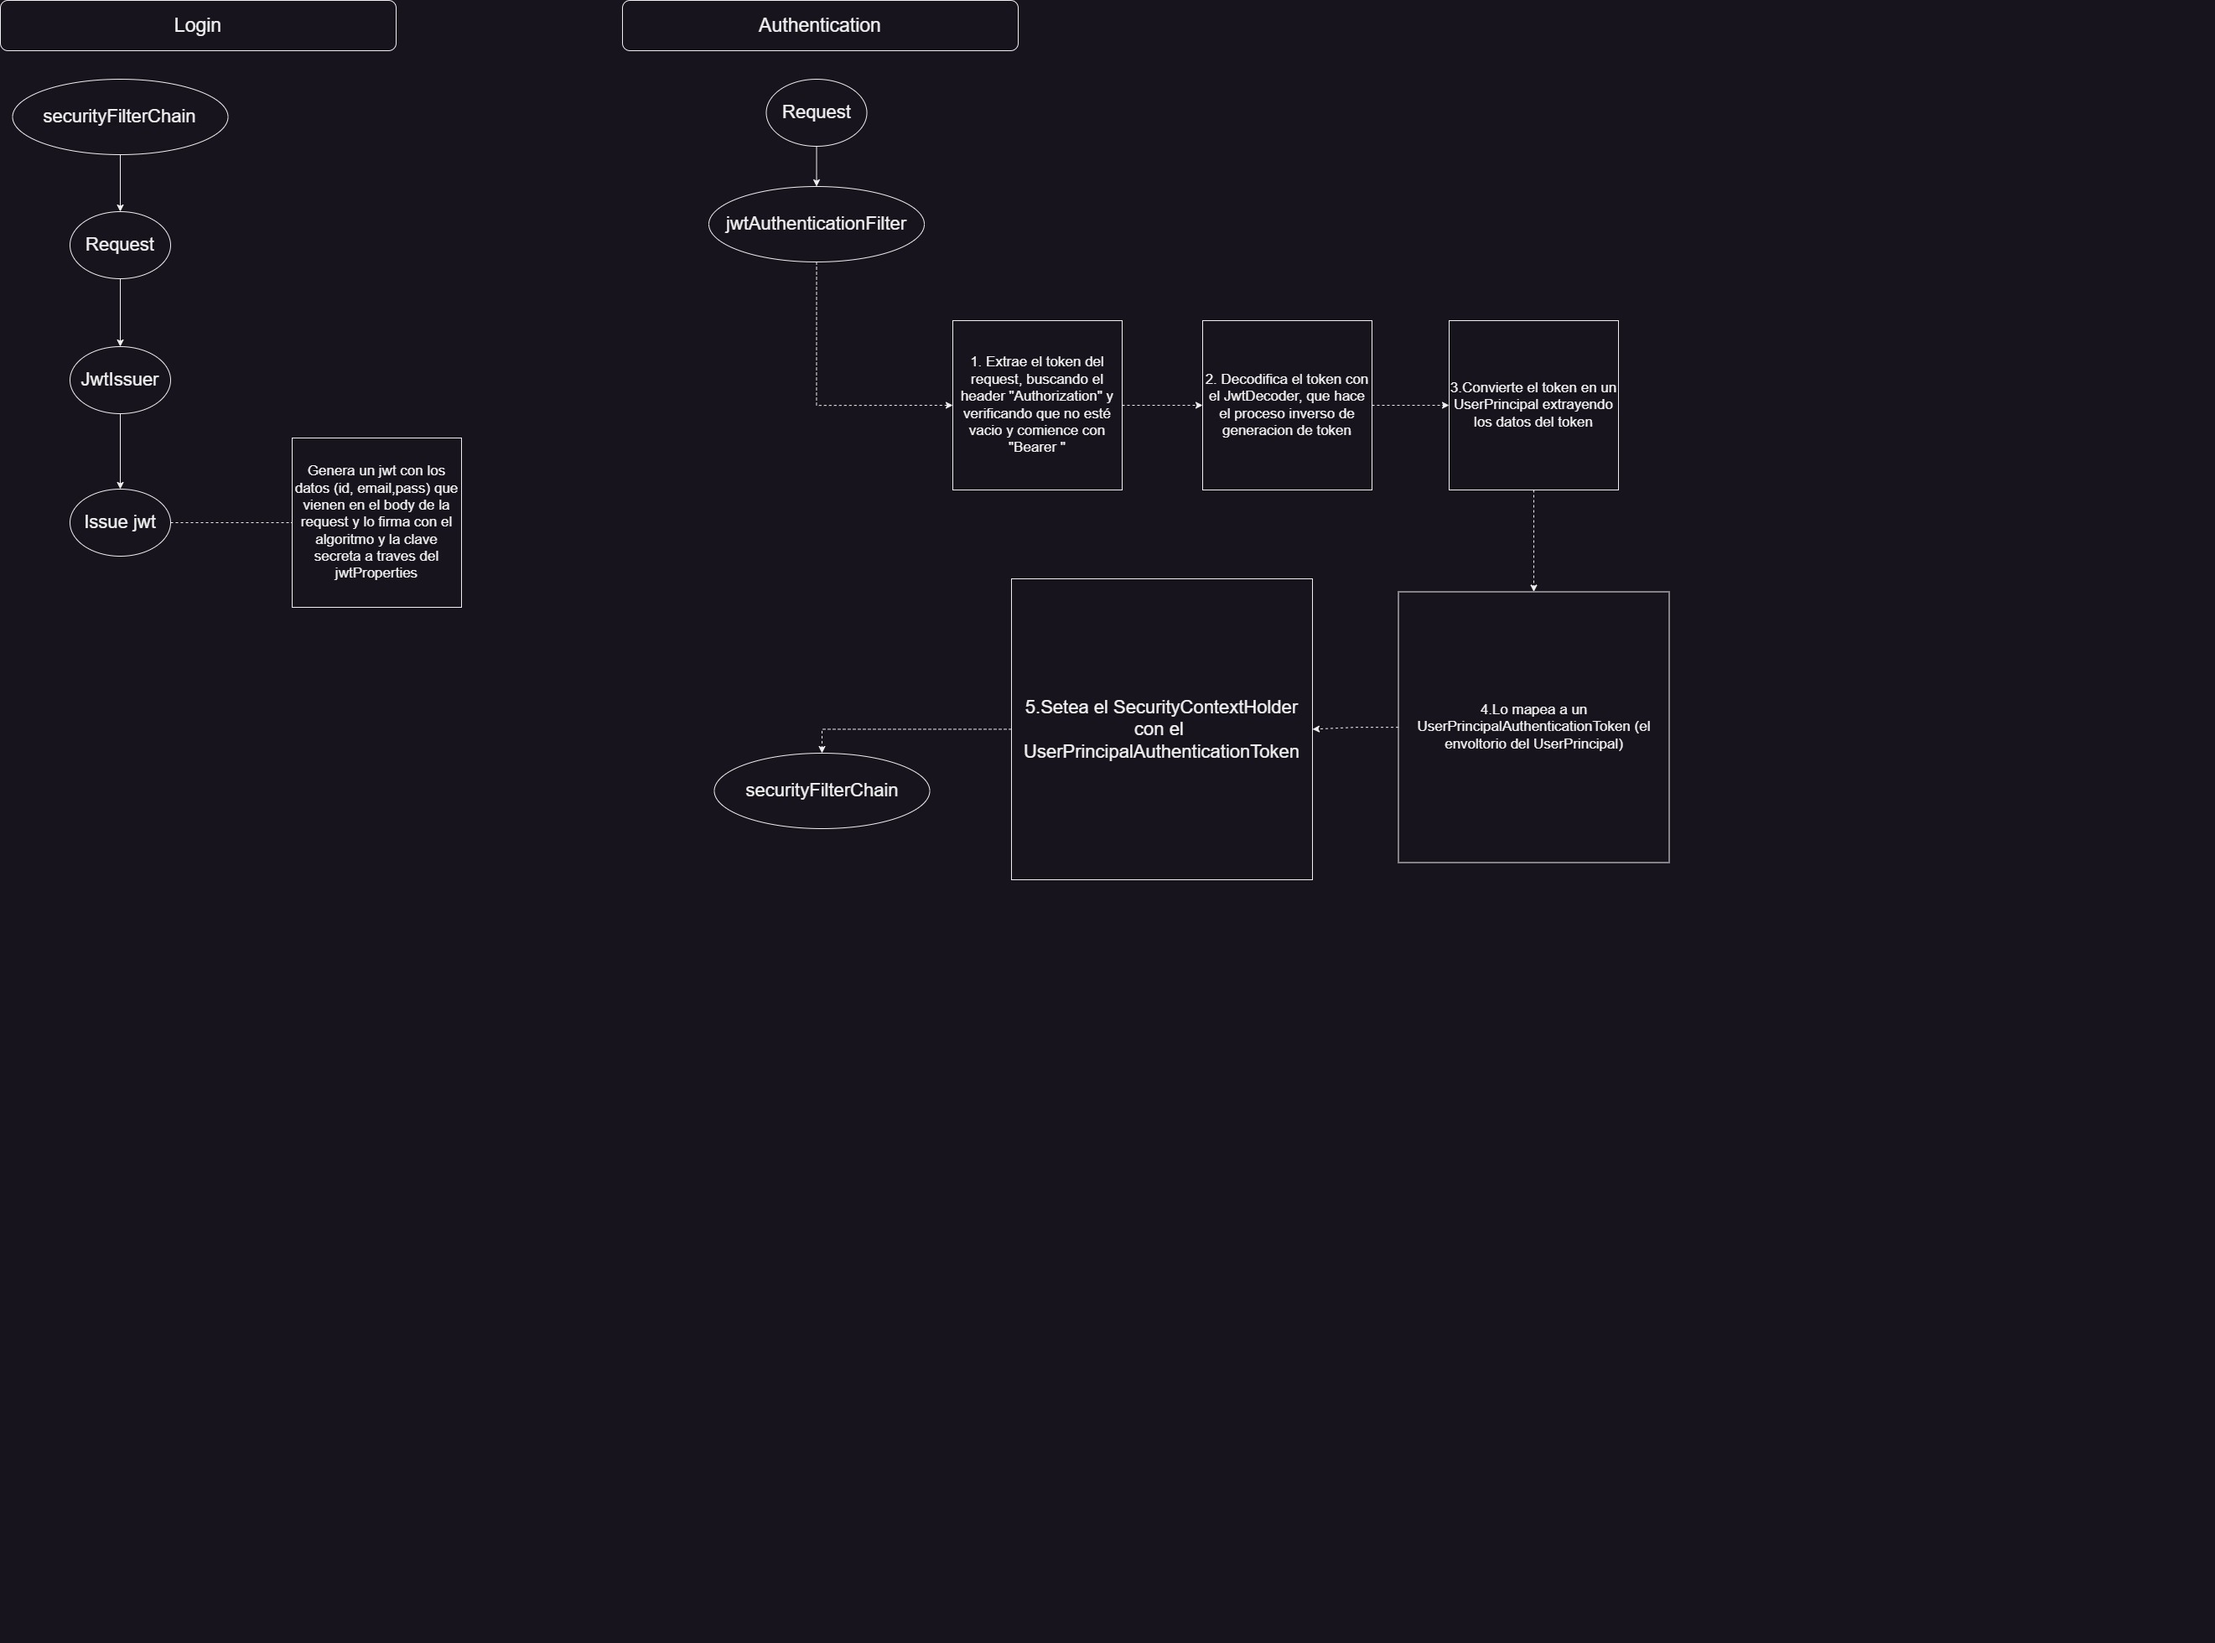
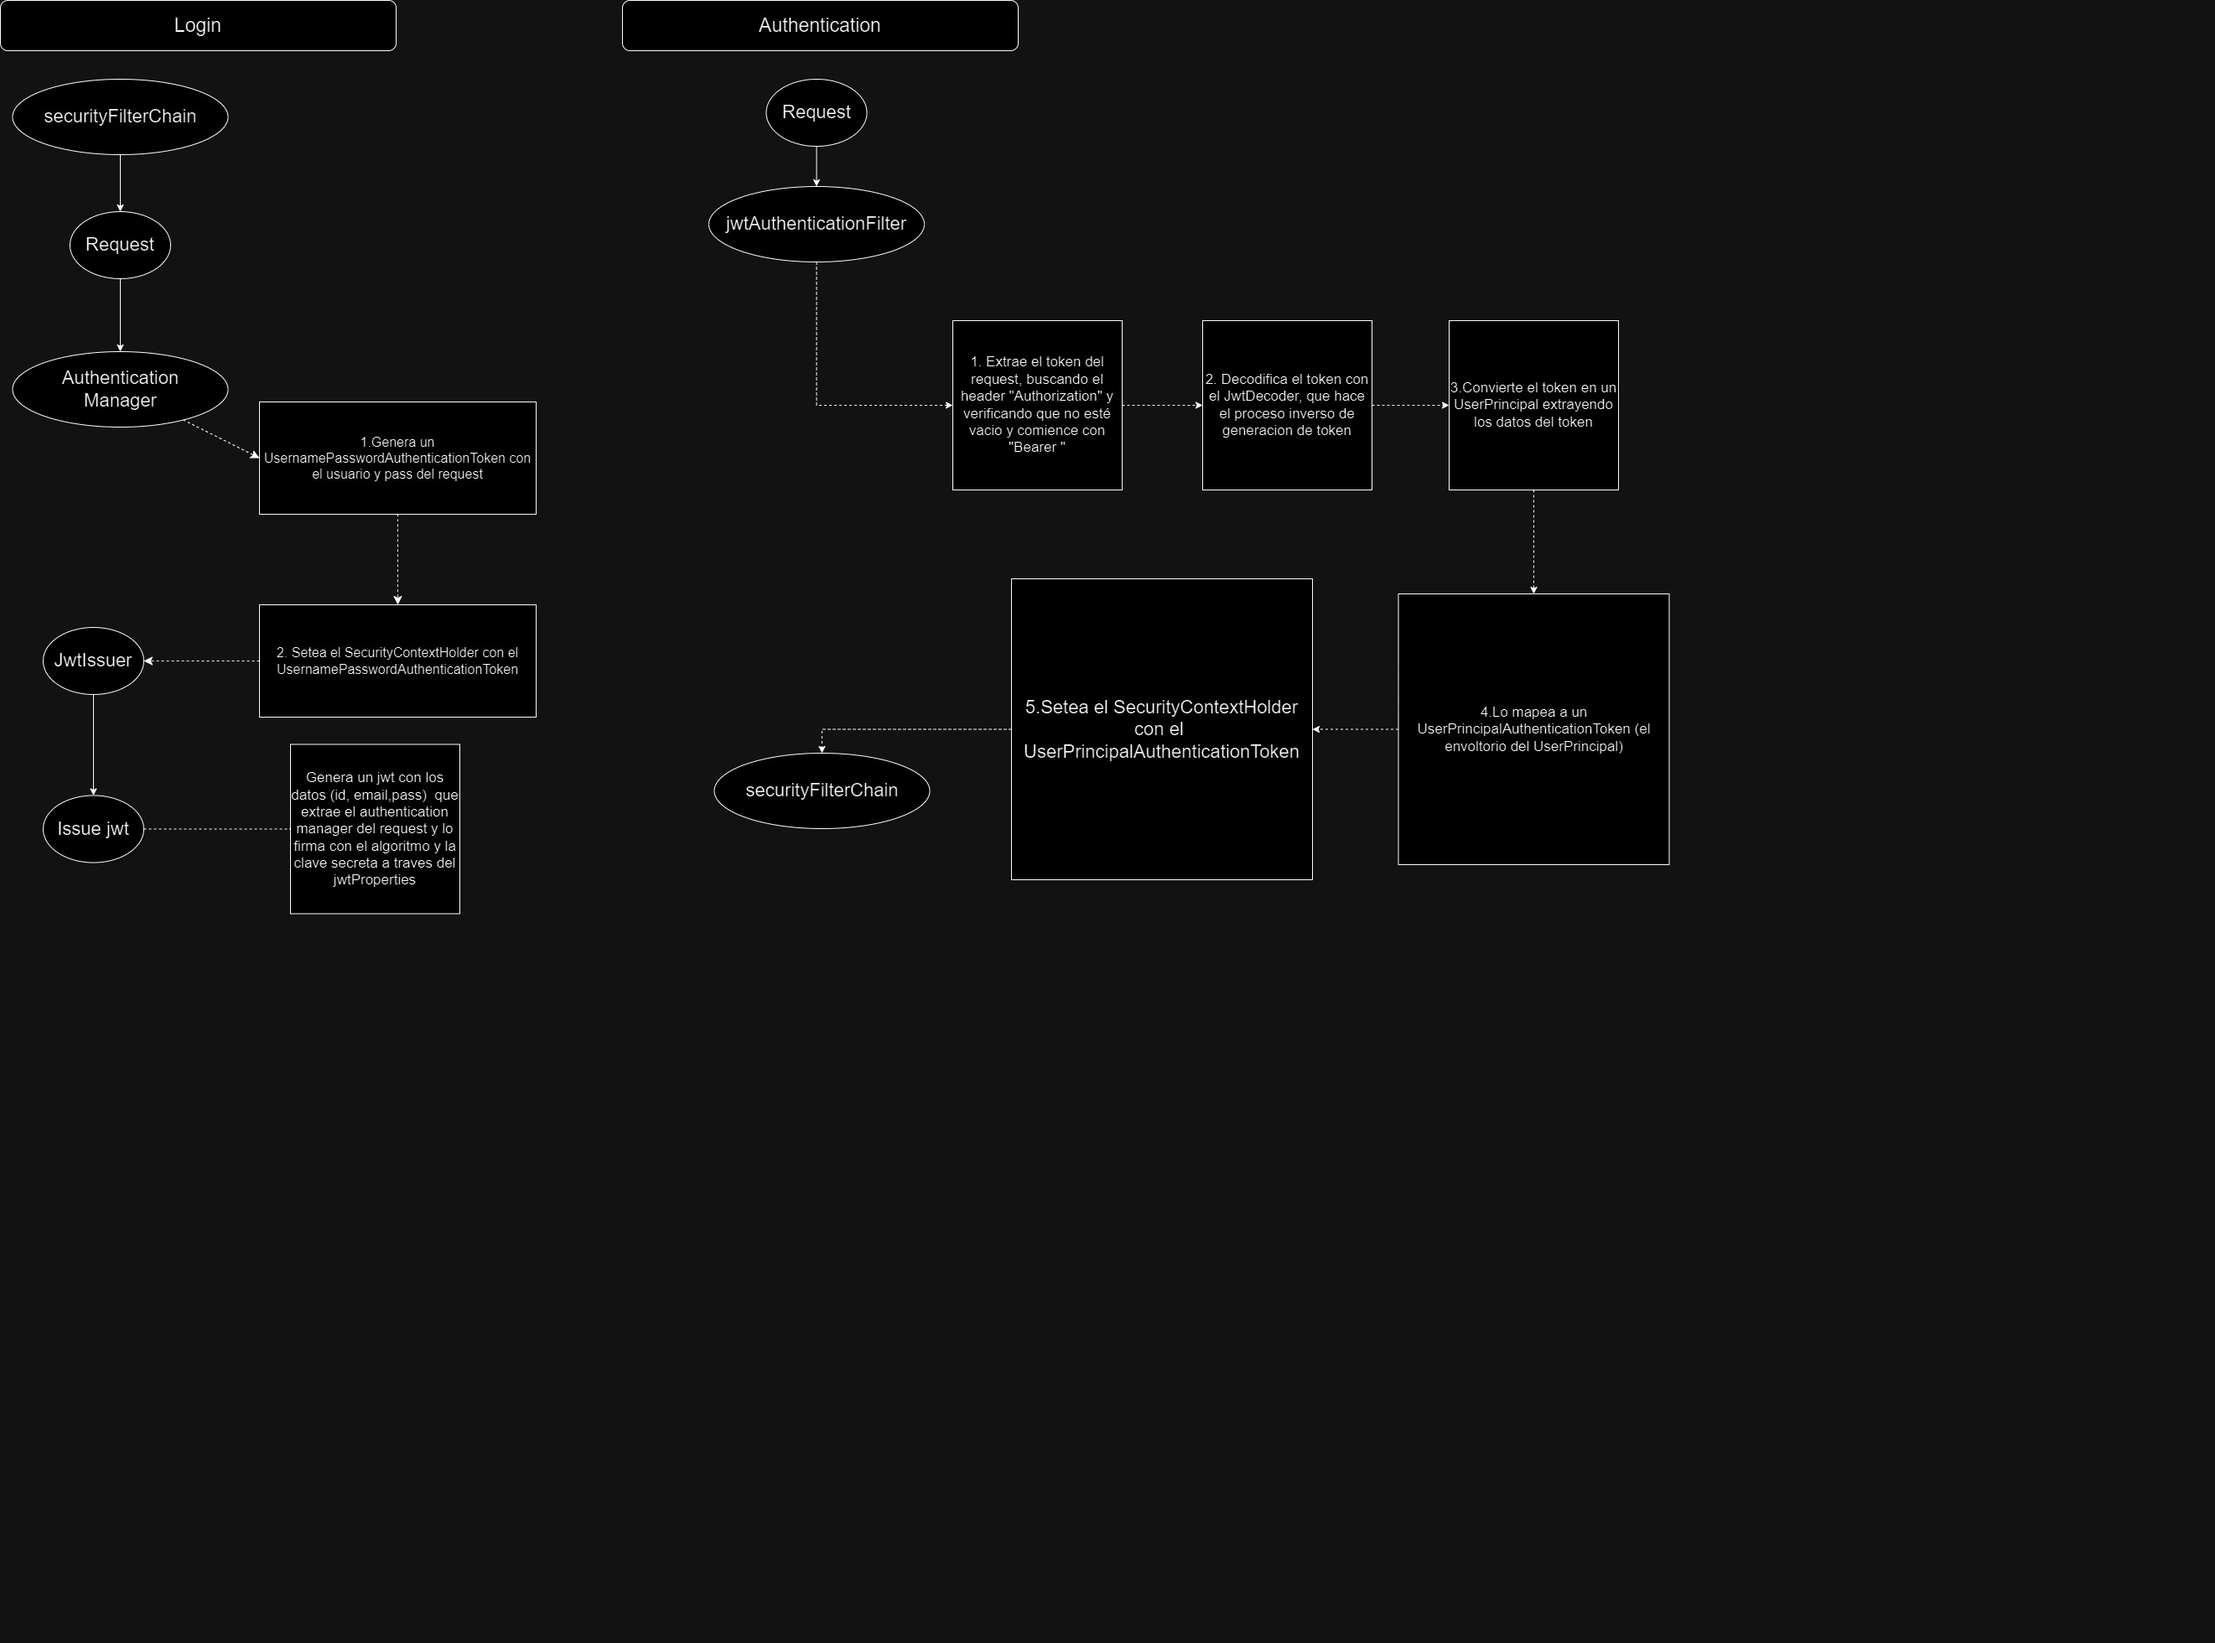
Implementacion del authentication manager. Reforma en el diagrama del funcionamiento de la api

diff --git a/src/main/java/com/apiRestSecurity/demo/controllers/AuthController.java b/src/main/java/com/apiRestSecurity/demo/controllers/AuthController.java
@@ -3,7 +3,13 @@ package com.apiRestSecurity.demo.controllers;
 import com.apiRestSecurity.demo.model.LoginRequest;
 import com.apiRestSecurity.demo.model.LoginResponse;
 import com.apiRestSecurity.demo.security.JwtIssuer;
+import com.apiRestSecurity.demo.security.UserPrincipal;
 import lombok.RequiredArgsConstructor;
+import org.springframework.security.authentication.AuthenticationManager;
+import org.springframework.security.authentication.UsernamePasswordAuthenticationToken;
+import org.springframework.security.core.GrantedAuthority;
+import org.springframework.security.core.annotation.AuthenticationPrincipal;
+import org.springframework.security.core.context.SecurityContextHolder;
 import org.springframework.validation.annotation.Validated;
 import org.springframework.web.bind.annotation.GetMapping;
 import org.springframework.web.bind.annotation.PostMapping;
@@ -17,16 +23,26 @@ import java.util.List;
 public class AuthController {
 
     private final JwtIssuer jwtIssuer;
+    private final AuthenticationManager authenticationManager;
     @PostMapping("/auth/login")
     public LoginResponse login(@RequestBody @Validated LoginRequest request){
-        var token = jwtIssuer.issue(1L,request.getEmail(), List.of("USER"));
+        var authentication = authenticationManager.authenticate(
+                new UsernamePasswordAuthenticationToken(request.getEmail(),request.getPassword())
+        );
+        SecurityContextHolder.getContext().setAuthentication(authentication);
+        var principal = (UserPrincipal) authentication.getPrincipal();
+        var roles = principal.getAuthorities().stream()
+                .map(GrantedAuthority::getAuthority)
+                .toList();
+        var token = jwtIssuer.issue(principal.getUserId(), principal.getEmail(), roles);
         return LoginResponse.builder()
                 .accesToken(token)
                 .build();
 
 }
+
     @GetMapping("/secured")
-    public String secured(){
-        return "if you see this, then you're logged in";
+    public String secured(@AuthenticationPrincipal UserPrincipal userPrincipal){
+        return "if you see this, then you're logged in as email: "+userPrincipal.getEmail()+" ,userId: "+userPrincipal.getUserId();
     }
 }

diff --git a/src/main/java/com/apiRestSecurity/demo/security/WebSecuityConfig.java b/src/main/java/com/apiRestSecurity/demo/security/WebSecuityConfig.java
@@ -3,9 +3,13 @@ package com.apiRestSecurity.demo.security;
 import lombok.RequiredArgsConstructor;
 import org.springframework.context.annotation.Bean;
 import org.springframework.context.annotation.Configuration;
+import org.springframework.security.authentication.AuthenticationManager;
+import org.springframework.security.config.annotation.authentication.builders.AuthenticationManagerBuilder;
 import org.springframework.security.config.annotation.web.builders.HttpSecurity;
 import org.springframework.security.config.annotation.web.configuration.EnableWebSecurity;
 import org.springframework.security.config.http.SessionCreationPolicy;
+import org.springframework.security.crypto.bcrypt.BCryptPasswordEncoder;
+import org.springframework.security.crypto.password.PasswordEncoder;
 import org.springframework.security.web.SecurityFilterChain;
 import org.springframework.security.web.authentication.UsernamePasswordAuthenticationFilter;
 
@@ -14,6 +18,7 @@ import org.springframework.security.web.authentication.UsernamePasswordAuthentic
 @RequiredArgsConstructor
 public class WebSecuityConfig {
     private final JwtAuthenticationFilter jwtAuthenticationFilter;
+    private final CustomUserDetailService costuCustomUserDetailService;
     @Bean
     public SecurityFilterChain aplicationSecurity(HttpSecurity http) throws Exception {
         http.addFilterBefore(jwtAuthenticationFilter, UsernamePasswordAuthenticationFilter.class);
@@ -30,5 +35,16 @@ public class WebSecuityConfig {
                                 .anyRequest().authenticated());
         return http.build();
 
+    }
+    @Bean
+    public PasswordEncoder passwordEncoder(){
+        return new BCryptPasswordEncoder();
+    }
+    @Bean
+    public AuthenticationManager authenticationManager(HttpSecurity httpSecurity) throws Exception {
+        return httpSecurity.getSharedObject(AuthenticationManagerBuilder.class)
+                .userDetailsService(costuCustomUserDetailService)
+                .passwordEncoder(passwordEncoder())
+                .and().build();
     }
 }

diff --git a/src/main/java/com/apiRestSecurity/demo/security/CustomUserDetailService.java b/src/main/java/com/apiRestSecurity/demo/security/CustomUserDetailService.java
@@ -1,0 +1,28 @@
+package com.apiRestSecurity.demo.security;
+
+import com.apiRestSecurity.demo.service.UserService;
+import lombok.RequiredArgsConstructor;
+import org.springframework.security.core.authority.SimpleGrantedAuthority;
+import org.springframework.security.core.userdetails.UserDetails;
+import org.springframework.security.core.userdetails.UserDetailsService;
+import org.springframework.security.core.userdetails.UsernameNotFoundException;
+import org.springframework.stereotype.Component;
+
+import java.util.List;
+
+@Component
+@RequiredArgsConstructor
+public class CustomUserDetailService implements UserDetailsService {
+    private final UserService userService;
+
+    @Override
+    public UserDetails loadUserByUsername(String username) throws UsernameNotFoundException {
+        var user = userService.findByEmail(username).orElseThrow();
+        return UserPrincipal.builder()
+                .userId(user.getId())
+                .email(user.getEmail())
+                .grantedAuthorities(List.of(new SimpleGrantedAuthority(user.getRole())))
+                .password(user.getPassword())
+                .build();
+    }
+}

diff --git a/src/main/java/com/apiRestSecurity/demo/security/UserPrincipal.java b/src/main/java/com/apiRestSecurity/demo/security/UserPrincipal.java
@@ -1,5 +1,6 @@
 package com.apiRestSecurity.demo.security;
 
+import com.fasterxml.jackson.annotation.JsonIgnore;
 import lombok.Builder;
 import lombok.Getter;
 import org.springframework.security.core.GrantedAuthority;
@@ -14,6 +15,9 @@ public class UserPrincipal implements UserDetails {
     private final String email;
     private final Collection<? extends GrantedAuthority> grantedAuthorities;
 
+    @JsonIgnore
+    private final String password;
+
     @Override
     public Collection<? extends GrantedAuthority> getAuthorities() {
         return grantedAuthorities;
@@ -21,7 +25,7 @@ public class UserPrincipal implements UserDetails {
 
     @Override
     public String getPassword() {
-        return null;
+        return password;
     }
 
     @Override

diff --git a/src/main/java/com/apiRestSecurity/demo/service/UserService.java b/src/main/java/com/apiRestSecurity/demo/service/UserService.java
@@ -1,0 +1,23 @@
+package com.apiRestSecurity.demo.service;
+
+import com.apiRestSecurity.demo.entity.UserEntity;
+import org.springframework.stereotype.Service;
+
+import java.util.Optional;
+
+@Service
+public class UserService {
+
+    private static final String EXISTING_EMAIL= "fedekpo";
+    public Optional<UserEntity> findByEmail(String email){
+        if(!EXISTING_EMAIL.equalsIgnoreCase(email)) return Optional.empty();
+        var user = new UserEntity();
+        user.setId(1L);
+        user.setEmail(EXISTING_EMAIL);
+        user.setPassword("$2a$12$UgeWgjdxZqI9Yzhdjly2zObuf6PLvvXz9XiPgG2XMcgYOREoXPfIi");//12345
+        user.setRole("ROLE_ADMIN");
+        user.setExtraInfo("Re crack el admin");
+        return Optional.of(user);
+
+ }
+}

diff --git a/src/main/java/com/apiRestSecurity/demo/entity/UserEntity.java b/src/main/java/com/apiRestSecurity/demo/entity/UserEntity.java
@@ -1,0 +1,16 @@
+package com.apiRestSecurity.demo.entity;
+
+import com.fasterxml.jackson.annotation.JsonIgnore;
+import lombok.Getter;
+import lombok.Setter;
+
+@Getter
+@Setter
+public class UserEntity {
+    private  Long id;
+    private  String email;
+    @JsonIgnore
+    private String password;
+    private String role;
+    private String extraInfo;
+}
